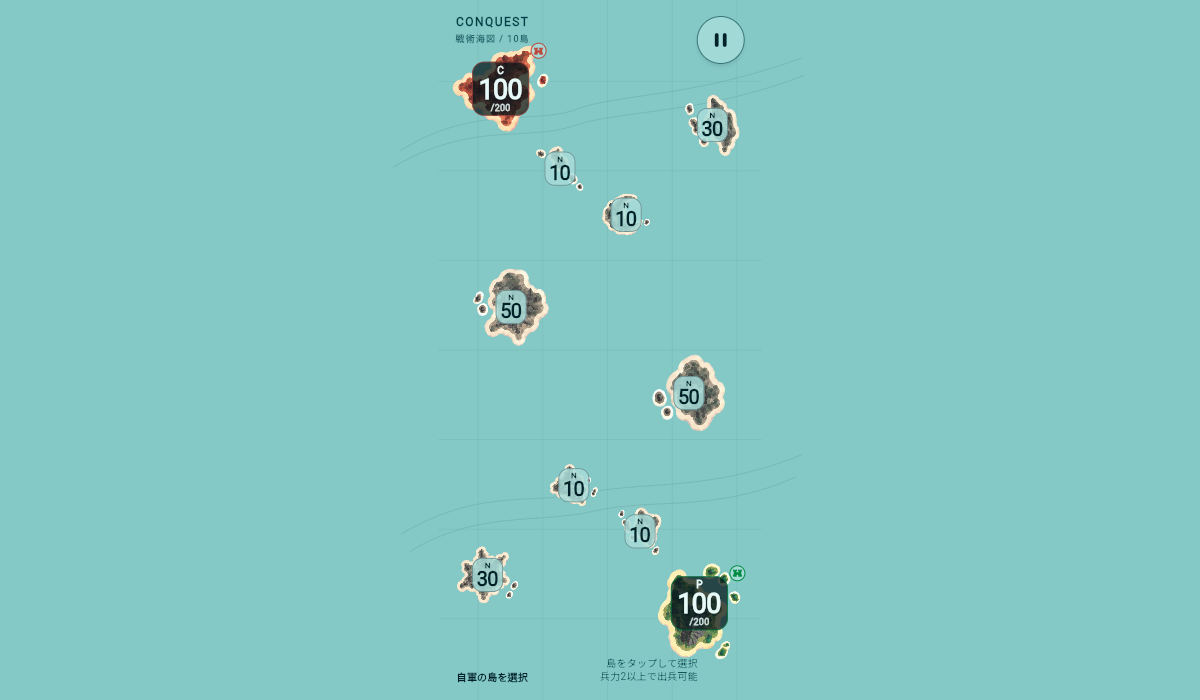
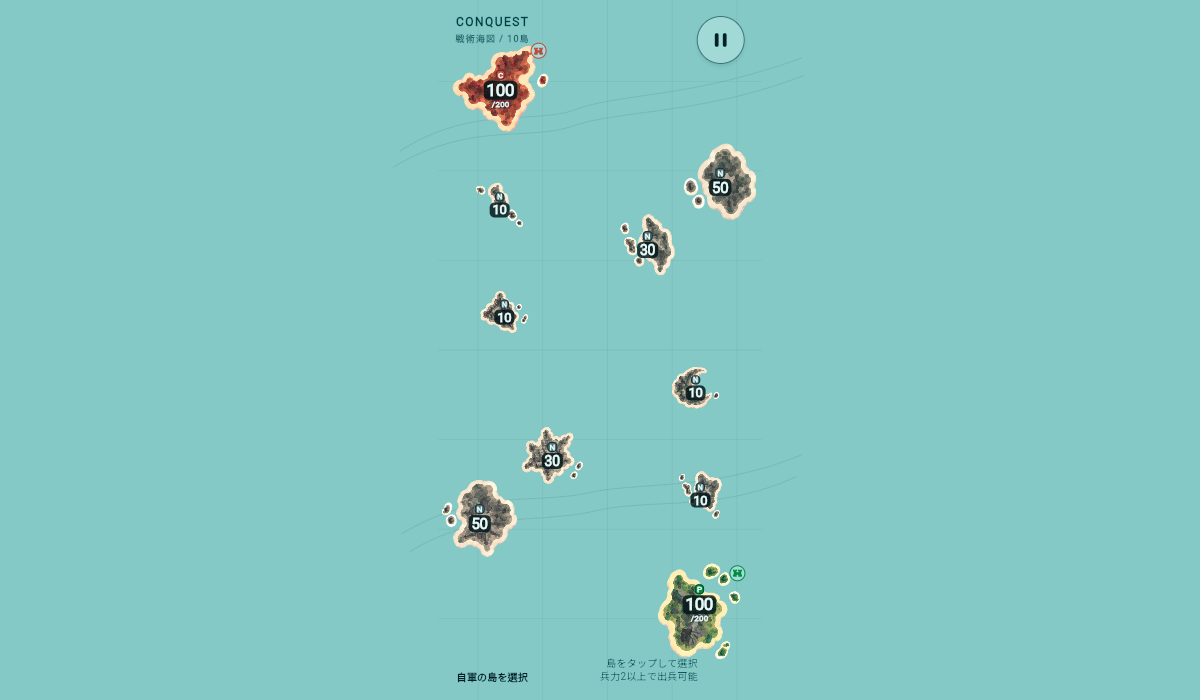
docs: refresh issue 63 status QA evidence

diff --git a/docs/qa/issue-63/QA.md b/docs/qa/issue-63/QA.md
@@ -1,11 +1,12 @@
 # Issue #63 browser verification
 
-Code HEAD: `0ca88a99f56a4edcb1f2592677c7b751d2cf7c81`.
+Code HEAD: `7f55e8c327d498e420ff93e334419e44f2fdccec`.
 Baseline: `4108aaaa59b94b6455b0dab85039eadfa193a1cc`.
 Environment: local Flutter release web build, headless Google Chrome, Japanese locale.
 
 - Settings: all 36 island asset requests observed before match start.
 - Normal match: 10 islands, 390x844. Dynamic troop count, capacity, faction and headquarters badge visible.
+- Compact status acceptance: the large unified three-line dark panel is removed; each island now shows a faction-colored pill, a dark troop chip with white text, and capacity text outside the chip. The smaller composition exposes clearly more island artwork while keeping `100` and `/200` readable.
 - Select player headquarters, wait >1 tick (120ms), then tap a neutral small island: dispatched force and observed capture from N durability10 to P with capacity50 (troops continue increasing after capture). Same outline and location visually retained.
 - Selected source badge/frame and destination brackets visible; Semantics reports selected source/valid target.
 - Pause and resume countdown verified. Images and values remain visible behind overlays.
@@ -13,15 +14,20 @@ Environment: local Flutter release web build, headless Google Chrome, Japanese l
 - Final full matrix run: no page errors or console errors. Result in browser-qa-result.json.
 - No iOS/Android device run in this browser check.
 
-## Known pre-existing visual constraint
+## Compact status acceptance
 
-At280x500 the lower headquarters overlaps the bottom instruction text. Reproduced in both baseline and updated build (before-board-8islands-280x500.png / after-board-8islands-280x500.png). The fix moves the new headquarters capacity text up: on both normal and selected 280x500 captures the current value and capacity now sit above the hint. Island positions and100px headquarters frame are unchanged; fixing map coordinates is out of scope. The comparison uses separately generated random maps, not identical seeds; headquarters anchors are deterministic.
+- Status comparison at390x844: `before-status-390x844.png` / `after-board-390x844.png`.
+- Status comparison at280x500: `before-status-280x500.png` / `after-selected-8islands-280x500.png`.
+- The old before captures and new after captures use separately generated random maps and are not identical layouts. Deterministic headquarters anchors support the status comparison; the original `before-board-390x844.png` and `before-board-8islands-280x500.png` remain as baseline board-context evidence.
+- In the selected280x500 layout, the capacity text remains separated from the bottom operation hint. Island positions and the100px headquarters frame are unchanged.
 
 ## Valid final screenshots
 
 - before-board-390x844.png
 - before-selected-390x844.png
 - before-board-8islands-280x500.png
+- before-status-390x844.png
+- before-status-280x500.png
 - after-board-390x844.png
 - after-selected-390x844.png
 - before-capture-390x844.png
